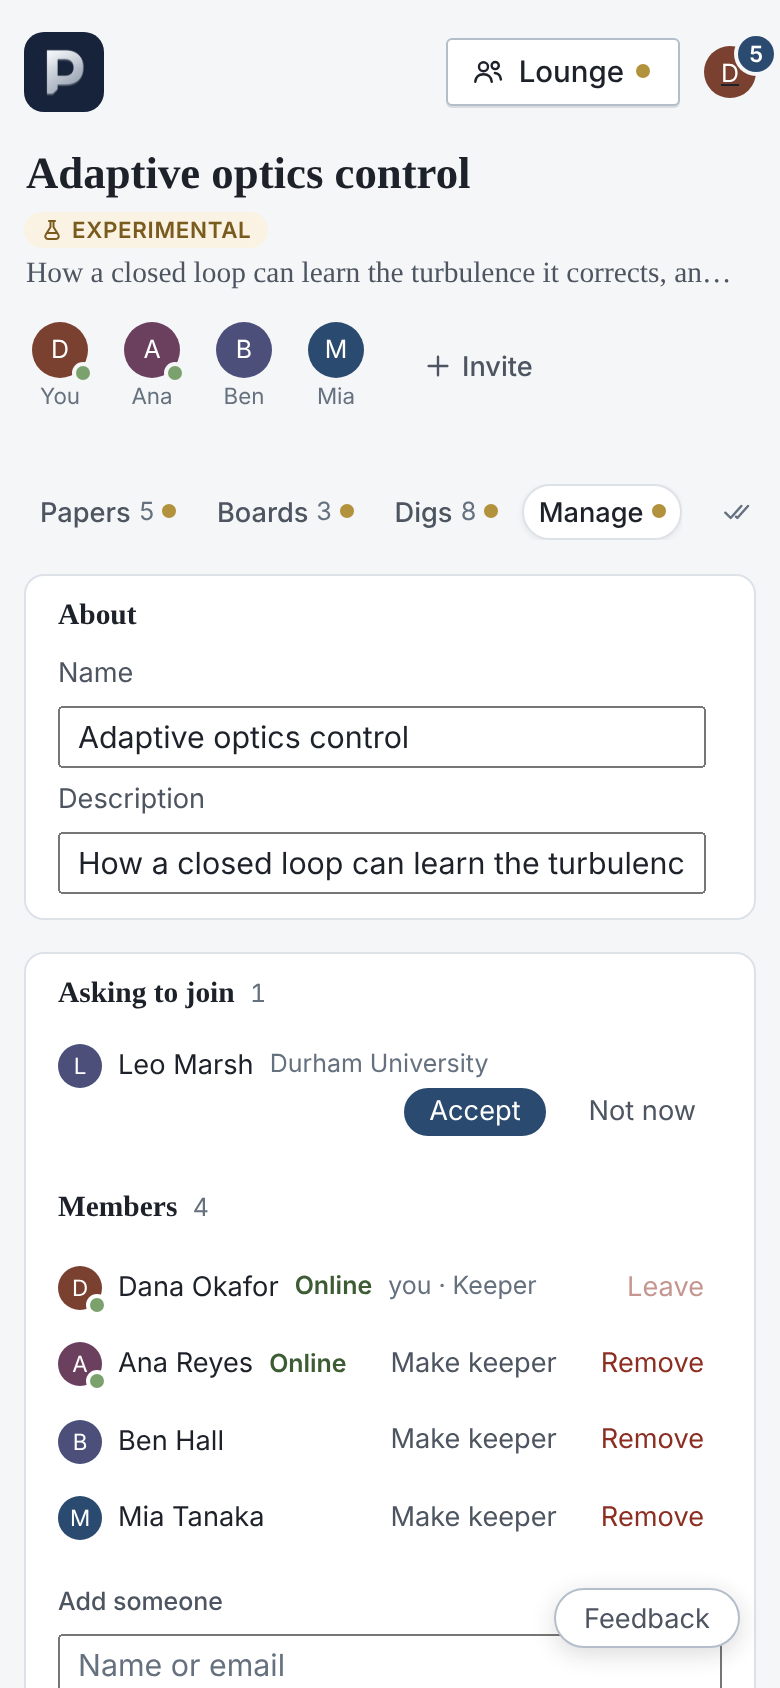
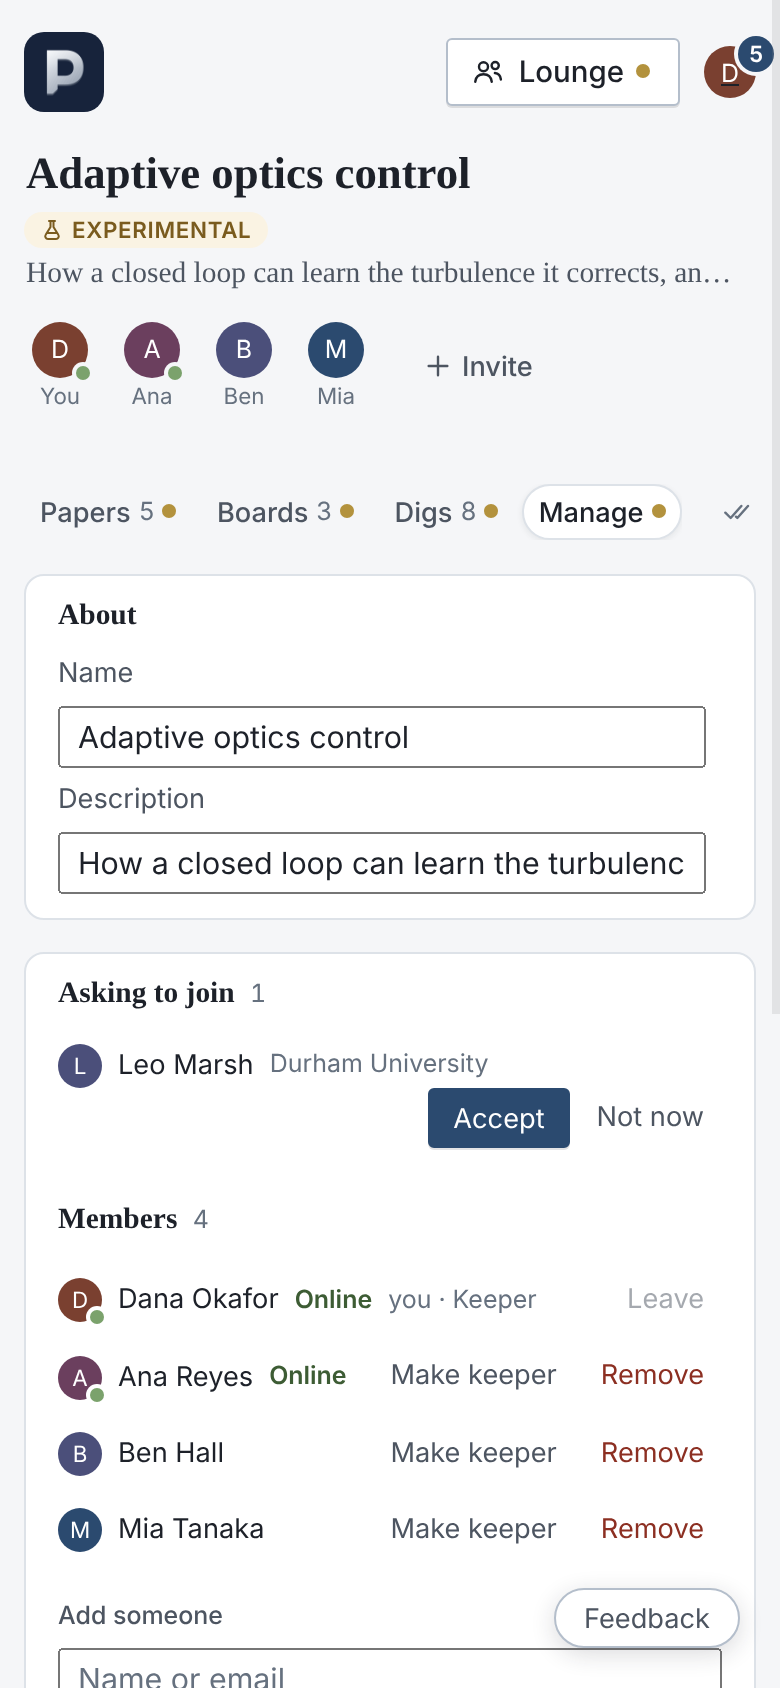
Give each kind of button in Manage one job
Manage had grown a filled navy button, a pill, a filled red one, outlined
buttons in two sizes and red and grey words. Now four kinds, all one size:

- Filled: the one answer someone waits for (Accept).
- Outlined: what a row is there to do (Copy link, Create link, Add, Leave).
- Quiet words: a row's other choices (Not now, Make keeper, Stop link).
- Red, as quiet words or the soft danger button: what takes something
  from other members (Remove, Delete project). Delete project is no
  longer a filled red, as DESIGN.md asks of danger buttons, and a member's
  own Leave is no longer red: leaving takes nothing from the others.

Claude-Session: https://claude.ai/code/session_01PQZzMUaE1PLVbxdZ4FTiy2

diff --git a/frontend/src/components/ProjectPage.jsx b/frontend/src/components/ProjectPage.jsx
@@ -474,7 +474,8 @@ export function MemberList({ project, currentUser, act, onLeave }) {
             )}
             {me ? (
               <span className="project-person-actions">
-                <button type="button" className="project-quiet project-danger" onClick={onLeave}
+                {/* Not red: leaving takes nothing from the others. */}
+                <button type="button" className="project-quiet" onClick={onLeave}
                   disabled={stuck} title={stuck ? 'Make another member keeper first' : undefined}>Leave</button>
               </span>
             ) : project.is_keeper && (
@@ -513,10 +514,11 @@ function Asks({ project, act }) {
             <Face user={user} />
             <a className="project-person-name" href={appPath(`/u/${user.uuid}`)}>{user.display_name}</a>
             {user.affiliation && <span className="project-person-role">{user.affiliation}</span>}
-            {/* The same two buttons as on the ask's line in the Inbox. */}
-            <span className="project-person-actions friend-button">
-              <button type="button" className="primary friend-accept" disabled={answering === user.uuid} onClick={() => answer(user, acceptAsk)}>Accept</button>
-              <button type="button" className="friend-not-now" disabled={answering === user.uuid} onClick={() => answer(user, declineAsk)}>Not now</button>
+            {/* Accept is the tab's one filled button, the answer someone
+                waits for; Not now is quiet, as a row's other choices are. */}
+            <span className="project-person-actions">
+              <button type="button" className="primary" disabled={answering === user.uuid} onClick={() => answer(user, acceptAsk)}>Accept</button>
+              <button type="button" className="project-quiet" disabled={answering === user.uuid} onClick={() => answer(user, declineAsk)}>Not now</button>
             </span>
           </li>
         ))}
@@ -598,7 +600,7 @@ function AddPerson({ project, act, focus = true }) {
 }
 
 // The one invitation link a project has, for a keeper to hand out or stop.
-function Invitation({ project, act }) {
+function Invitation({ project, act, plain = false }) {
   const [copied, setCopied] = useState(false);
   // On the service's address, not this window's, which on the Mac is the app's.
   const linkFor = (code) => new URL(backendPath(invitationPath(code)), window.location.origin).toString();
@@ -610,7 +612,7 @@ function Invitation({ project, act }) {
     return (
       <div className="project-invite">
         <button
-          type="button" className="primary"
+          type="button" className={plain ? undefined : 'primary'}
           onClick={() => act(async () => {
             await openInvitation(project.uuid);
             const next = await getProject(project.uuid);
@@ -675,7 +677,8 @@ function ProjectManage({ project, currentUser, act, onRename, onDescribe, onLeft
             <h4>Add someone</h4>
             <AddPerson project={project} act={act} focus={false} />
             <h4>Invitation link</h4>
-            <Invitation project={project} act={act} />
+            {/* Outlined here: Manage keeps its filled button for Accept. */}
+            <Invitation project={project} act={act} plain />
           </div>
         )}
       </section>
@@ -694,7 +697,7 @@ function ProjectManage({ project, currentUser, act, onRename, onDescribe, onLeft
               <strong>Delete this project</strong>
               <p>For everyone in it, with its boards and digs. The papers stay in each member&rsquo;s nook.</p>
             </div>
-            <button type="button" className="project-manage-delete" onClick={remove}>Delete project</button>
+            <button type="button" className="danger project-manage-delete" onClick={remove}>Delete project</button>
           </div>
         )}
       </section>

diff --git a/shared/applicationStyles.js b/shared/applicationStyles.js
@@ -5415,9 +5415,13 @@ button.project-quiet.project-danger:hover:not(:disabled) { background: var(--red
 .project-manage-row + .project-manage-row { border-top: 1px solid var(--line); }
 .project-manage-row strong { color: var(--ink); font-weight: 500; }
 .project-manage-row p { margin: 2px 0 0; color: var(--ink-soft); font-size: var(--fs-xs); }
-.project-manage-row button { flex: none; padding: calc(var(--space-1) + var(--cap-room, 0px)) var(--space-3); }
+/* Four kinds of button in Manage, each for one thing. Filled: the one
+   answer someone waits for (Accept). Outlined: what a row is there to do
+   (Copy link, Add, Leave). Quiet words: a row's other choices (Not now, Make
+   keeper, Stop link). Red, as quiet words or the soft danger button: what
+   takes something from other members (Remove, Delete project). All one size. */
+.project-manage button:not(.project-quiet) { flex: none; padding: calc(var(--space-1) + var(--cap-room, 0px)) var(--space-3); font-size: var(--fs-sm); }
 .project-manage-danger { border-color: color-mix(in srgb, var(--red) 30%, var(--line)); }
-button.project-manage-delete, button.project-manage-delete:hover:not(:disabled) { border-color: var(--red); background: var(--red); color: var(--ink-inverse); }
 @media (max-width: 640px) {
   .project-manage-section { padding: var(--space-3) var(--space-4); }
   .project-manage-field { grid-template-columns: minmax(0, 1fr) auto; }
@@ -5978,7 +5982,7 @@ ${talkStyles}
 
 /* A message in the Inbox that has an answer or a place: said under it. */
 .notification-acts { display: flex; flex-wrap: wrap; align-items: center; gap: var(--space-2); padding: 0 var(--space-3) var(--space-3) calc(var(--space-2) + 14px + var(--space-2)); }
-.notification-acts button, .project-asks .friend-button button { padding: calc(3px + var(--cap-room, 0px)) var(--space-3); border-radius: 999px; font: 400 var(--fs-sm) var(--font-ui); }
+.notification-acts button { padding: calc(3px + var(--cap-room, 0px)) var(--space-3); border-radius: 999px; font: 400 var(--fs-sm) var(--font-ui); }
 .notification-link { color: var(--ink-soft); font: 400 var(--fs-sm) var(--font-ui); }
 .notification-link:hover { color: var(--accent); }
 .notification-answered { color: var(--ink-soft); font: 400 var(--fs-sm) var(--font-ui); }

diff --git a/frontend/src/projectManage.test.js b/frontend/src/projectManage.test.js
@@ -47,9 +47,13 @@ test('a keeper answers an ask to join in Manage and in the Inbox', () => {
   const asks = page.slice(page.indexOf('function Asks'), page.indexOf('// The keeper of a project others are in'));
   assert.match(manage, /\{keeper && project\.asks\?\.length > 0 && <Asks project=\{project\} act=\{act\} \/>\}/);
   assert.match(asks, /answer\(user, acceptAsk\)\}>Accept<\/button>/);
-  // The same pill buttons as the ask's line in the Inbox.
-  assert.match(asks, /className="project-person-actions friend-button">\s*<button type="button" className="primary friend-accept"/);
-  assert.match(asks, /className="friend-not-now"/);
+  // Accept is the tab's one filled button; Not now is quiet like a row's other choices.
+  assert.match(asks, /className="primary" disabled=\{answering === user\.uuid\} onClick=\{\(\) => answer\(user, acceptAsk\)\}/);
+  assert.match(asks, /className="project-quiet" disabled=\{answering === user\.uuid\} onClick=\{\(\) => answer\(user, declineAsk\)\}/);
+  assert.equal(manage.match(/className="primary/g), null);
+  // Red is for what takes something from others: the soft danger button, never a filled one.
+  assert.match(manage, /className="danger project-manage-delete"/);
+  assert.doesNotMatch(readFileSync(new URL('../../shared/applicationStyles.js', import.meta.url), 'utf8'), /project-manage-delete[^}]*background: var\(--red\)/);
   assert.match(asks, /answer\(user, declineAsk\)\}>Not now<\/button>/);
   assert.match(page, /manage: project\.asks\?\.length > 0/);
   assert.match(inbox, /n\.kind === 'project_ask' && n\.actor && \(n\.waiting \|\| n\.answered\)/);

diff --git a/frontend/DESIGN.md b/frontend/DESIGN.md
@@ -721,3 +721,10 @@ Two traps worth naming, both hit in practice:
   `h2` or `p` moves the text and leaves the controls beside it behind.
 - One prominent action per view (`button.primary`); everything else is a
   plain button or a `.link-btn`.
+- **A project's Manage tab** shows the four kinds side by side, each for one
+  thing and all one size. Filled: the one answer someone waits for
+  (Accept). Outlined: what a row is there to do (Copy link, Add, Leave).
+  Quiet words: a row's other choices (Not now, Make keeper, Stop link). Red,
+  as quiet words or `button.danger`: what takes something from other
+  members (Remove, Delete project), never a filled red. Leaving is not red:
+  it takes nothing from the others.
